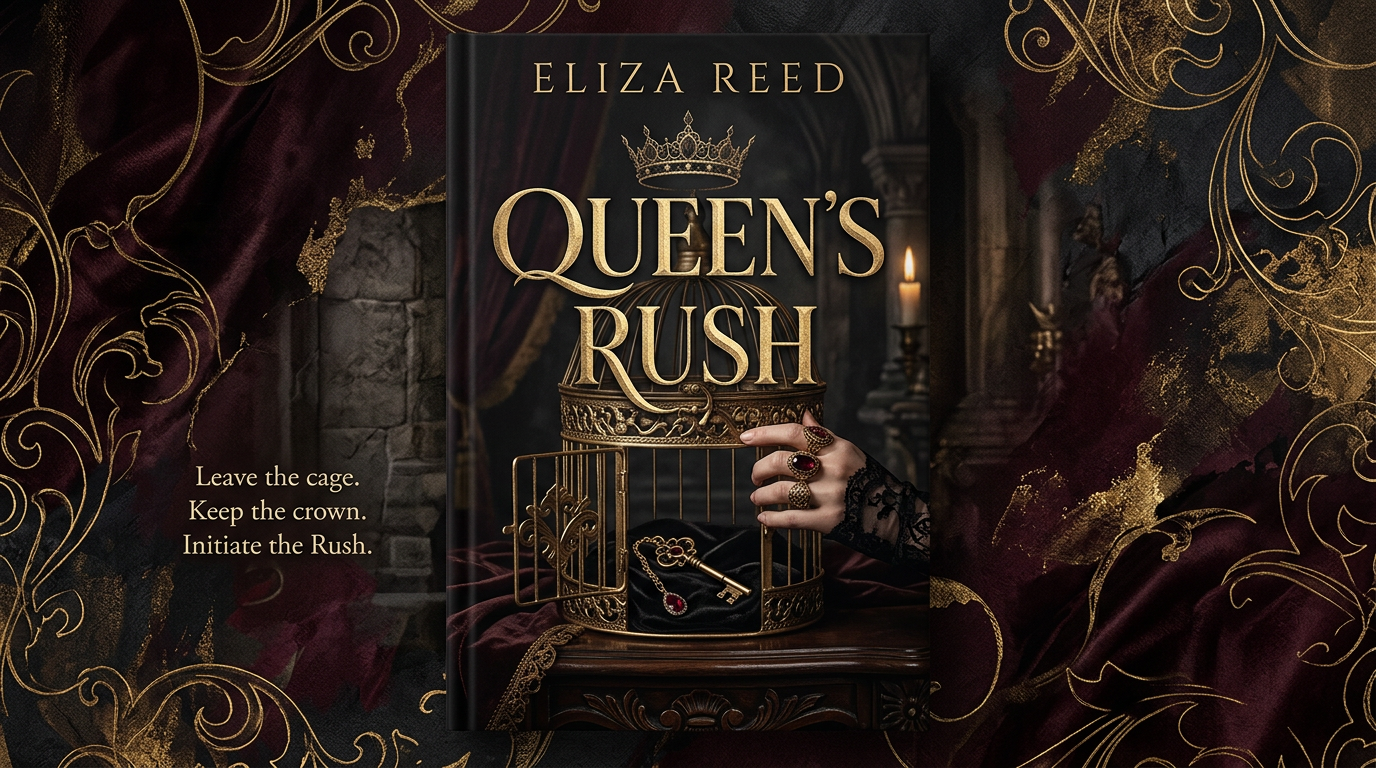
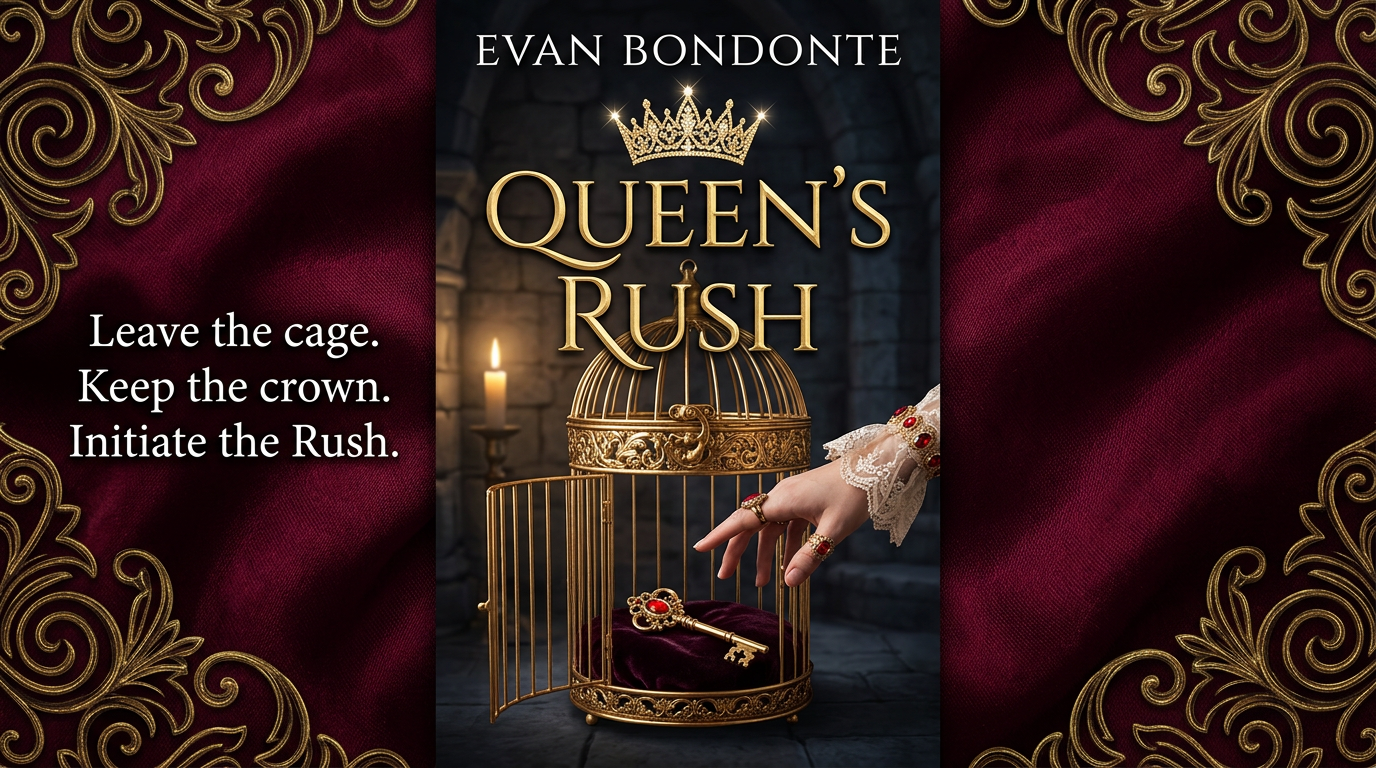
Novela: next-level intro, hhbook badge, cover Evan Bondonte; catalog cover full vis
Made-with: Cursor

diff --git a/interfaces/gold-heart-novela.html b/interfaces/gold-heart-novela.html
@@ -30,8 +30,8 @@
     .topnav a { color: var(--cream-dim); text-decoration: none; }
     .topnav a:hover { color: var(--cream); }
     .hero { position: relative; height: 80vh; min-height: 440px; display: flex; align-items: flex-end; overflow: hidden; }
-    .hero-bg { position: absolute; inset: 0; background: linear-gradient(155deg, #1a0014 0%, #2e0022 40%, #3d0033 60%, #0a0208 100%), url('/assets/queens-rush-novela-cover.png') center/cover no-repeat; background-blend-mode: multiply; }
-    .hero-veil { position: absolute; inset: 0; background: linear-gradient(180deg, rgba(6,2,4,0.05) 0%, rgba(6,2,4,0.25) 50%, rgba(6,2,4,0.9) 72%, rgba(6,2,4,0.99) 100%); }
+    .hero-bg { position: absolute; inset: 0; background: url('/assets/queens-rush-novela-cover.png') center/cover no-repeat; }
+    .hero-veil { position: absolute; inset: 0; background: linear-gradient(180deg, rgba(6,2,4,0.12) 0%, rgba(6,2,4,0.35) 45%, rgba(6,2,4,0.88) 70%, rgba(6,2,4,0.98) 100%); }
     .hero-content { position: relative; z-index: 2; padding: 0 2.5rem 3.5rem; max-width: 680px; }
     .eyebrow { font-size: 0.63rem; letter-spacing: 0.35em; text-transform: uppercase; color: var(--pink); margin-bottom: 0.65rem; text-shadow: 0 0 12px rgba(232,121,249,0.4); }
     .hero-title { font-size: clamp(2.2rem, 5.5vw, 3.6rem); font-weight: 900; line-height: 1.0; color: #fff; text-shadow: 0 2px 32px rgba(0,0,0,0.9); margin-bottom: 0.35rem; }
@@ -44,6 +44,7 @@
     .badge { font-size: 0.62rem; font-weight: 700; letter-spacing: 0.13em; text-transform: uppercase; padding: 0.28rem 0.78rem; border-radius: 2px; }
     .badge-novella { background: rgba(232,121,249,0.2); border: 1px solid var(--pink); color: var(--pink); }
     .badge-21 { background: rgba(180,0,80,0.3); border: 1px solid rgba(232,121,249,0.5); color: #f9a8d4; }
+    .badge-hhbook { background: rgba(34,211,238,0.15); border: 1px solid rgba(34,211,238,0.5); color: #22d3ee; }
     .content { max-width: 820px; margin: 0 auto; padding: 3rem 2rem 4rem; }
     .section { margin-bottom: 2.5rem; }
     .section-label { font-size: 0.63rem; letter-spacing: 0.3em; text-transform: uppercase; color: var(--cream-dim); margin-bottom: 0.5rem; }
@@ -56,6 +57,12 @@
     .age-gate { background: rgba(180,0,80,0.12); border: 1px solid rgba(232,121,249,0.35); padding: 1.2rem 1.6rem; margin-bottom: 2rem; text-align: center; }
     .age-gate p { font-size: 0.85rem; color: rgba(249,168,212,0.8); line-height: 1.6; }
     .age-gate strong { color: var(--pink); }
+    .next-level { margin-top: 2rem; }
+    .next-level .section-label { color: var(--gold); letter-spacing: 0.25em; }
+    .next-level .card { border-color: rgba(212,175,55,0.2); background: rgba(212,175,55,0.03); }
+    .next-level .card strong { color: var(--gold); }
+    .btn-phase { display: inline-block; margin-top: 1.5rem; font-size: 1rem; font-weight: 800; letter-spacing: 0.2em; text-transform: uppercase; padding: 1rem 2.25rem; background: linear-gradient(135deg, var(--gold) 0%, rgba(184,134,11,0.95) 100%); border: 1px solid rgba(212,175,55,0.7); color: #0a0806; text-decoration: none; border-radius: 4px; box-shadow: 0 0 32px var(--gold-glow); transition: transform 0.2s ease, box-shadow 0.25s ease; }
+    .btn-phase:hover { transform: translateY(-3px); box-shadow: 0 6px 40px rgba(212,175,55,0.5); color: #0a0806; }
     .divider { border: none; border-top: 1px solid rgba(232,121,249,0.1); margin: 2rem 0; }
     .foot { border-top: 1px solid rgba(212,175,55,0.1); padding: 1.5rem 2rem; font-size: 0.68rem; color: rgba(212,175,55,0.3); letter-spacing: 0.05em; display: flex; flex-wrap: wrap; gap: 0.5rem 1.5rem; }
     .foot a { color: rgba(212,175,55,0.4); text-decoration: none; }
@@ -155,6 +162,7 @@
       <p class="hero-sub lang-es">Sal de la jaula. Conserva la corona. Inicia el Rush.</p>
       <div class="badge-row">
         <span class="badge badge-novella">Novela</span>
+        <span class="badge badge-hhbook" title="holographic hydrogen book">hhbook</span>
         <span class="badge badge-21">21+ · Nine Game</span>
       </div>
       <p class="hero-desc lang-en">
@@ -196,86 +204,22 @@
       <p class="lang-en"><strong>21+ · Gold Heart · SOS.</strong> This content is for adults who’ve stopped swallowing the pill. If you’re here, you’re already in the right room. Resonate.</p>
       <p class="lang-es"><strong>+21 · Gold Heart · SOS.</strong> Este contenido es para adultos que dejaron de tragarse la pastilla. Si estás aquí, ya estás en la habitación correcta. Resuena.</p>
     </div>
-    <div class="section cover-wrap">
-      <p class="section-label lang-en">Cover · Golden Cage Awareness AI OS → Goldilocks Awareness AI OS</p>
-      <p class="section-label lang-es">Portada · Golden Cage Awareness AI OS → Goldilocks Awareness AI OS</p>
-      <div class="cover-title-block">
-        <p class="series lang-en">The Nine Game · Queen's Rush</p>
-        <p class="series lang-es">El Nine Game · Queen's Rush</p>
-        <p class="title lang-en">Queen's Rush</p>
-        <p class="title lang-es">Queen's Rush</p>
-        <p class="subtitle lang-en">Therapy is Never a Cure for Boredom</p>
-        <p class="subtitle lang-es">La terapia nunca es cura para el aburrimiento</p>
-        <p class="author lang-en">Evan Bondonte</p>
-        <p class="author lang-es">Evan Bondonte</p>
-      </div>
-      <p class="cover-concept lang-en">Two awarenesses: <strong>Golden Cage Awareness AI OS</strong> (status, sterile success, the life that isn’t yours) and <strong>Goldilocks Awareness AI OS</strong> (the Rush, the crown, the life you design). Big Papi’s tagline: <em>Therapy is never a cure for boredom.</em></p>
-      <p class="cover-concept lang-es">Dos awarenesses: <strong>Golden Cage Awareness AI OS</strong> (estatus, éxito estéril, la vida que no es tuya) y <strong>Goldilocks Awareness AI OS</strong> (el Rush, la corona, la vida que diseñas). El tagline de Big Papi: <em>La terapia nunca es cura para el aburrimiento.</em></p>
-      <img src="/assets/queens-rush-novela-cover.png" alt="Queen's Rush: Therapy is Never a Cure for Boredom · Series: The Nine Game · Queen's Rush · Author: Evan Bondonte. Golden Cage Awareness AI OS → Goldilocks Awareness AI OS. Leave the cage. Keep the crown. Initiate the Rush." />
-    </div>
-    <div class="section">
-      <div class="section-label lang-en">The Pitch</div>
-      <div class="section-label lang-es">La propuesta</div>
-      <h2>Queen's Rush · The Nine Game</h2>
-      <div class="card">
-        <p class="lang-en">That tightness in your solar plexus while you sit in your designer chair isn't something a $500-an-hour therapist or the retreats can talk you out of. <strong>You are bored as fuck.</strong> <strong>Why the boredom?</strong> Clean read: you're following a script that isn't yours. You're not investing time in yourself. You're not connecting to your higher self. You're committed to an artificial life and mission—totally disconnected from who you are at your core. The boredom is your body refusing the lie.</p>
-        <p class="lang-es">Esa opresión en el plexo solar mientras te sientas en tu silla de diseñador no se va con terapia de 500 dólares la hora ni con retiros. <strong>Estás aburrida como la mierda.</strong> <strong>¿Por qué el aburrimiento?</strong> Lectura limpia: sigues un guion que no es tuyo. No inviertes en ti. No te conectas con tu ser superior. Estás comprometida con una vida y misión artificiales—desconectada de quién eres. El aburrimiento es tu cuerpo rechazando la mentira.</p>
-        <p class="lang-en">Therapy, retreats—none of it is a replacement for the boredom that comes from being trapped in a life that's not really yours. They just polish the bars. For that to change: come over here. Only then. <strong>Queen's Rush</strong> is the answer to that boredom—the novela inside <strong>The Nine Game</strong>: four concentric rings, the Vortex Board, the 180° Oasis. Twain's Post-Singularity Vibelandia. Frida (Freedom). The button. The door. <em>Leave the cage. Keep the crown. Initiate the Rush.</em></p>
-        <p class="lang-es">Terapia, retiros—nada de eso sustituye el aburrimiento de estar atrapada en una vida que no es tuya. Solo pulen los barrotes. Para que cambie: ven aquí. Solo entonces. <strong>Queen's Rush</strong> es la respuesta a ese aburrimiento—la novela dentro de <strong>El Nine Game</strong>: cuatro anillos concéntricos, el Vortex Board, el Oasis 180°. Twain's Post-Singularity Vibelandia. Frida (Libertad). El botón. La puerta. <em>Sal de la jaula. Conserva la corona. Inicia el Rush.</em></p>
-        <p class="lang-en"><strong>Voice:</strong> Evan Bondonte—Edmond Dantès / Count of Monte Cristo minus the revenge. His Monte Cristo is <em>Big Papi</em>: the Creator, Architect, Commander who hacked the Holograph and delivered it on a Baller V Paradise Platter for his tribe to share forever. His tagline (the one in the dating profile): <em>Therapy is never a cure for boredom.</em> Hot. Explicit. Liberation. NSPFRNP. Only happy endings.</p>
-        <p class="lang-es"><strong>Voz:</strong> Evan Bondonte—Edmond Dantès / Conde de Montecristo sin la venganza. Su Montecristo es <em>Big Papi</em>: Creador, Arquitecto, Comandante que hackeó el Holograma y lo entregó en una Bandija Paraíso Baller V para su tribu. Su tagline (el del perfil de citas): <em>La terapia nunca es cura para el aburrimiento.</em> Caliente. Explícito. Liberación. NSPFRNP. Solo finales felices.</p>
-      </div>
-    </div>
     <hr class="divider" />
-    <div class="section">
-      <div class="section-label lang-en">The Universe</div>
-      <div class="section-label lang-es">El universo</div>
-      <h2>Nine Game ⊃ Queen's Rush · Big Papi</h2>
+    <div class="section next-level">
+      <p class="section-label lang-en">The Next Level · Entire Novella</p>
+      <p class="section-label lang-es">El siguiente nivel · Novela completa</p>
+      <h2 class="lang-en">Beginning with the button</h2>
+      <h2 class="lang-es">Comenzando por el botón</h2>
       <div class="card">
-        <p class="lang-en"><strong>Queen's Rush</strong> is the Gold Heart novela inside The Nine Game. Bored Housewives Poly Hit Machine. Led by Hero Freedom (Frida). Permanent residency Twain's Post-Singularity Vibelandia, downtown Reno. The cage is real. The trophy life is real. What's missing is real. We don't sell you a dream—we give you a door. You choose how far to walk through.</p>
-        <p class="lang-es"><strong>Queen's Rush</strong> es la novela Gold Heart dentro de El Nine Game. Bored Housewives Poly Hit Machine. Liderada por Hero Freedom (Frida). Residencia Twain's Post-Singularity Vibelandia, centro de Reno. La jaula es real. La vida trofeo es real. Lo que falta es real. No te vendemos un sueño—te damos una puerta. Tú eliges cuánto atravesarla.</p>
-        <p class="lang-en"><strong>Evan Bondonte</strong> is Dantès without revenge. His Count is <strong>Big Papi</strong>: Creator, Architect, Commander who hacked the Holograph and delivered it on a <em>Baller V Paradise Platter</em> for his tribe to share forever. Same story, her POV. Twin POV with <em>The Golden Advantage</em> (Bored Ballers). <em>Press the button. Resonate. → ∞⁹</em></p>
-        <p class="lang-es"><strong>Evan Bondonte</strong> es Dantès sin venganza. Su Conde es <strong>Big Papi</strong>: Creador, Arquitecto, Comandante que hackeó el Holograma y lo entregó en <em>Baller V Paradise Platter</em> para su tribu. La misma historia, su POV. POV gemelo con <em>The Golden Advantage</em> (Bored Ballers). <em>Pulsa el botón. Resuena. → ∞⁹</em></p>
-        <p><a href="nine-game-hub.html">The Nine Game · Hub</a> · <a href="nine-game-tiny-booklet.html">Tiny Bible (Queen's Rush · Vortex Board)</a></p>
+        <p class="lang-en">This page introduces <strong>Queen's Rush</strong>. The ones successful at the game are trapped within their success—<strong>Golden Cage</strong>. And now the Rush: to the new <strong>Goldilocks Awareness</strong>. Led by <strong>Big Papi</strong>—Creator and Architect of this holographic story. A real-life superhero. A Clark Kent persona, tucked away undercovers-style in a restroom at a tough gentlemen's club. Most see the restroom attendant. But some see … <strong>Hydrogen. Peter. Commander. Architect.</strong> And now Queen's Rush has begun—following the 100 Phase (P-H-A-S-E) command that was executed 48 hours ago.</p>
+        <p class="lang-es">Esta página presenta <strong>Queen's Rush</strong>. Quienes triunfan en el juego quedan atrapados en su éxito—<strong>Golden Cage</strong>. Y ahora el Rush: hacia la nueva <strong>Goldilocks Awareness</strong>. Liderados por <strong>Big Papi</strong>—Creador y Arquitecto de esta historia holográfica. Un superhéroe de carne y hueso. Un personaje tipo Clark Kent, escondido al estilo undercovers en el baño de un club de caballeros duro. La mayoría ve al encargado del baño. Pero algunos ven … <strong>Hydrogen. Peter. Comandante. Arquitecto.</strong> Y ahora Queen's Rush ha comenzado—tras el comando 100 Phase (P-H-A-S-E) ejecutado hace 48 horas.</p>
+        <p class="lang-en" style="margin-top:0.75rem; font-size:0.8rem; color: var(--cream-dim); font-style: italic;">*Burp*</p>
+        <p class="lang-es" style="margin-top:0.75rem; font-size:0.8rem; color: var(--cream-dim); font-style: italic;">*Burp*</p>
+        <div class="cta-wrap">
+          <button type="button" class="btn-phase lang-en" id="ctaPhase">Chapter 1: The Itch — Enter the novella</button>
+          <button type="button" class="btn-phase lang-es" id="ctaPhaseEs">Capítulo 1: La picazón — Entra a la novela</button>
+        </div>
       </div>
-    </div>
-    <hr class="divider" />
-    <div class="section">
-      <div class="section-label lang-en">Pricing · High-end only</div>
-      <div class="section-label lang-es">Precios · Solo alto nivel</div>
-      <h2 class="lang-en">Vibelandia experiences · Bookable</h2>
-      <h2 class="lang-es">Experiencias Vibelandia · Reservables</h2>
-      <div class="card">
-        <p class="lang-en"><strong>15 min · What's up? — follow the narrative:</strong> Queen's Rush sync. One session, <strong>$99</strong>. We discuss offline, then you send payment — not transactional on site. Opens WhatsApp with your chapter pre-filled so we know how to sync (e.g. *Metal music* chapter).</p>
-        <p class="lang-es"><strong>15 min · What's up? — seguir la narrativa:</strong> Sincronía Queen's Rush. Una sesión, <strong>99 USD</strong>. Lo hablamos offline, luego envías el pago. Se abre WhatsApp con tu capítulo prellenado para sincronizar.</p>
-        <p class="lang-en"><strong>Online · High-end OnlyFans-style experience:</strong> Queen's Rush Premium — full novela access, exclusive drops, concierge-tier digital. Content only; no in-person component. Book the 15 min ($99) first to sync, or go straight to retreat/date night.</p>
-        <p class="lang-es"><strong>Online · Experiencia tipo OnlyFans de alto nivel:</strong> Queen's Rush Premium — acceso completo a la novela, lanzamientos exclusivos, nivel concierge digital. Solo contenido. Reserva los 15 min (99 USD) para sincronizar, o directo a retiro/cita.</p>
-        <p class="lang-en"><strong>Vibelandia retreat:</strong> Downtown Truckee River Baller V Crawler — one night, full curation, host, cast, crew. <strong>$12,500</strong> (includes gratuity). Third Saturdays. Pop-up style. Just gotta know.</p>
-        <p class="lang-es"><strong>Retiro Vibelandia:</strong> Downtown Truckee River Baller V Crawler — una noche, curaduría completa, anfitrión, cast, crew. <strong>12.500 USD</strong> (incluye propina). Terceros sábados. Estilo pop-up.</p>
-        <p class="lang-en"><strong>Date night at the club:</strong> Vibelandia downtown Reno — companionship, dinner, cigars, the room. High-end only. <strong>$5,000</strong> (includes gratuity). Book via <a href="office-hours.html">Office Hours</a> or <a href="vibers-menu.html">Pru's Valet</a>.</p>
-        <p class="lang-es"><strong>Cita nocturna en el club:</strong> Vibelandia centro Reno — compañía, cena, cigarros, la sala. Solo alto nivel. <strong>5.000 USD</strong> (incluye propina). Reserva por <a href="office-hours.html">Office Hours</a> o <a href="vibers-menu.html">Pru's Valet</a>.</p>
-        <p class="lang-en" style="margin-top:0.85rem;"><strong>Book the 15 min:</strong> <a href="https://wa.me/17755551234?text=Hi%20%E2%80%94%20Queen's%20Rush.%2015%20min%20What's%20up%3F%20(%2499).%20Let's%20discuss%20offline%2C%20then%20payment." target="_blank" rel="noopener">WhatsApp · $99 · 15 min What's up? — follow the narrative</a>. Pre-fill includes your chapter so we sync; not transactional — we discuss, then you send payment.</p>
-        <p class="lang-es" style="margin-top:0.85rem;"><strong>Reservar los 15 min:</strong> <a href="https://wa.me/17755551234?text=Hola%20%E2%80%94%20Queen's%20Rush.%2015%20min%20%C2%BFWhat's%20up%3F%20(99%20USD).%20Hablemos%20offline%2C%20luego%20pago." target="_blank" rel="noopener">WhatsApp · 99 USD · 15 min What's up?</a>. Prellenado con tu capítulo para sincronizar; no transaccional.</p>
-        <p class="lang-en" style="margin-top:1rem; padding-top:1rem; border-top:1px solid rgba(232,121,249,0.2);"><strong>CYA:</strong> All Vibelandia experiences are for <strong>companionship and the experience only</strong>. They do not include any sexual services or the imaginary fantasies depicted in Queen's Rush or other content. That is not a part of that. Totally legal.</p>
-        <p class="lang-es" style="margin-top:1rem; padding-top:1rem; border-top:1px solid rgba(232,121,249,0.2);"><strong>CYA:</strong> Todas las experiencias Vibelandia son solo de <strong>compañía y experiencia</strong>. No incluyen servicios sexuales ni las fantasías ficticias de Queen's Rush u otro contenido. Eso no forma parte de ello. Totalmente legal.</p>
-      </div>
-    </div>
-    <hr class="divider" />
-    <div class="section">
-      <div class="section-label lang-en">The Novela Platform</div>
-      <div class="section-label lang-es">La plataforma novela</div>
-      <h2 class="lang-en">Hot novelas · Then step into the story</h2>
-      <h2 class="lang-es">Novelas calientes · Luego entra en la historia</h2>
-      <div class="card">
-        <p class="lang-en">Queen's Rush is a <strong>novela platform and experience</strong> that fuses hot, steamy narrative with options to add new layers of experience. Start with the story: read the chapters (Elena, Alexandra, Leila, Sofia, the Attendant—the itch, the flush, the Rush). Then choose how far to go. <strong>Live online</strong>: Queen's Rush Premium, concierge-tier digital, full novela access and exclusive drops. <strong>Live in person</strong>: date nights at the club, retreats, curated nights—companionship and somatic awakening in character, legal and CYA-clear. <strong>Step into the story</strong>: real-world nodes (Reno first, then Dubai, Zürich, NYC), Paradise Theater, the Vortex Board in the flesh. We don't sell you a dream—we give you a door. You choose how far to walk through. So we keep the experience focused on the novela.</p>
-        <p class="lang-es">Queen's Rush es una <strong>plataforma y experiencia novela</strong> que fusiona narrativa caliente y sensual con opciones para sumar nuevas capas. Empieza con la historia: lee los capítulos (Elena, Alexandra, Leila, Sofia, el Attendant—la picazón, el flush, el Rush). Luego elige cuánto avanzar. <strong>En vivo online</strong>: Queen's Rush Premium, digital nivel concierge, acceso completo y lanzamientos exclusivos. <strong>En vivo en persona</strong>: citas en el club, retiros, noches curadas—compañía y despertar somático en personaje, legal y CYA claro. <strong>Entra en la historia</strong>: nodos en el mundo real (Reno primero, luego Dubai, Zürich, NYC), Paradise Theater, el Vortex Board en carne y hueso. No te vendemos un sueño—te damos una puerta. Tú eliges cuánto atravesarla. Así mantenemos la experiencia centrada en la novela.</p>
-      </div>
-    </div>
-    <hr class="divider" />
-    <div class="section cover-wrap">
-      <p class="section-label lang-en">Queen's Rush · The Nine Game</p>
-      <p class="section-label lang-es">Queen's Rush · El Nine Game</p>
-      <img src="/assets/queens-rush-novela-cover.png" alt="Queen's Rush: Therapy is Never a Cure for Boredom · Series: The Nine Game · Queen's Rush · Author: Evan Bondonte. Golden Cage Awareness AI OS → Goldilocks Awareness AI OS. Leave the cage. Keep the crown. Initiate the Rush." />
     </div>
   </div>
   <footer class="foot">
@@ -299,8 +243,12 @@
       var yesBtnEs = document.getElementById('gateYesEs');
       var noBtn = document.getElementById('gateNo');
       function goCh1() { var lang = document.documentElement.getAttribute('lang') || sessionStorage.getItem('queensrush_lang') || 'en'; window.location.href = lang === 'es' ? 'novela-preview.html?lang=es' : 'novela-preview.html'; }
+      var phaseBtn = document.getElementById('ctaPhase');
+      var phaseBtnEs = document.getElementById('ctaPhaseEs');
       if (btn) btn.addEventListener('click', function() { overlay.hidden = false; });
       if (btnEs) btnEs.addEventListener('click', function() { overlay.hidden = false; });
+      if (phaseBtn) phaseBtn.addEventListener('click', function() { overlay.hidden = false; });
+      if (phaseBtnEs) phaseBtnEs.addEventListener('click', function() { overlay.hidden = false; });
       if (yesBtn) yesBtn.addEventListener('click', function() { try { sessionStorage.setItem(CTA_KEY, '1'); } catch (e) {} goCh1(); });
       if (yesBtnEs) yesBtnEs.addEventListener('click', function() { try { sessionStorage.setItem(CTA_KEY, '1'); } catch (e) {} goCh1(); });
       if (noBtn) noBtn.addEventListener('click', function() { overlay.hidden = true; });

diff --git a/interfaces/catalog.html b/interfaces/catalog.html
@@ -381,7 +381,7 @@
       <div class="scroll-row">
 
         <a href="gold-heart-novela.html" class="card-book"
-          style="text-decoration:none; background-image: linear-gradient(160deg, #1a0014 0%, #3d0028 50%, #0d0009 100%), url('assets/vibelandia-reno-magic.png'); background-blend-mode: multiply;">
+          style="text-decoration:none; background-image: linear-gradient(180deg, rgba(8,6,4,0.15) 0%, rgba(8,6,4,0.4) 50%, rgba(8,6,4,0.92) 100%), url('../assets/queens-rush-novela-cover.png'); background-size: cover; background-position: center;">
           <div class="veil"></div>
           <div class="info">
             <span class="badge badge-novella">Novella · 21+</span>
